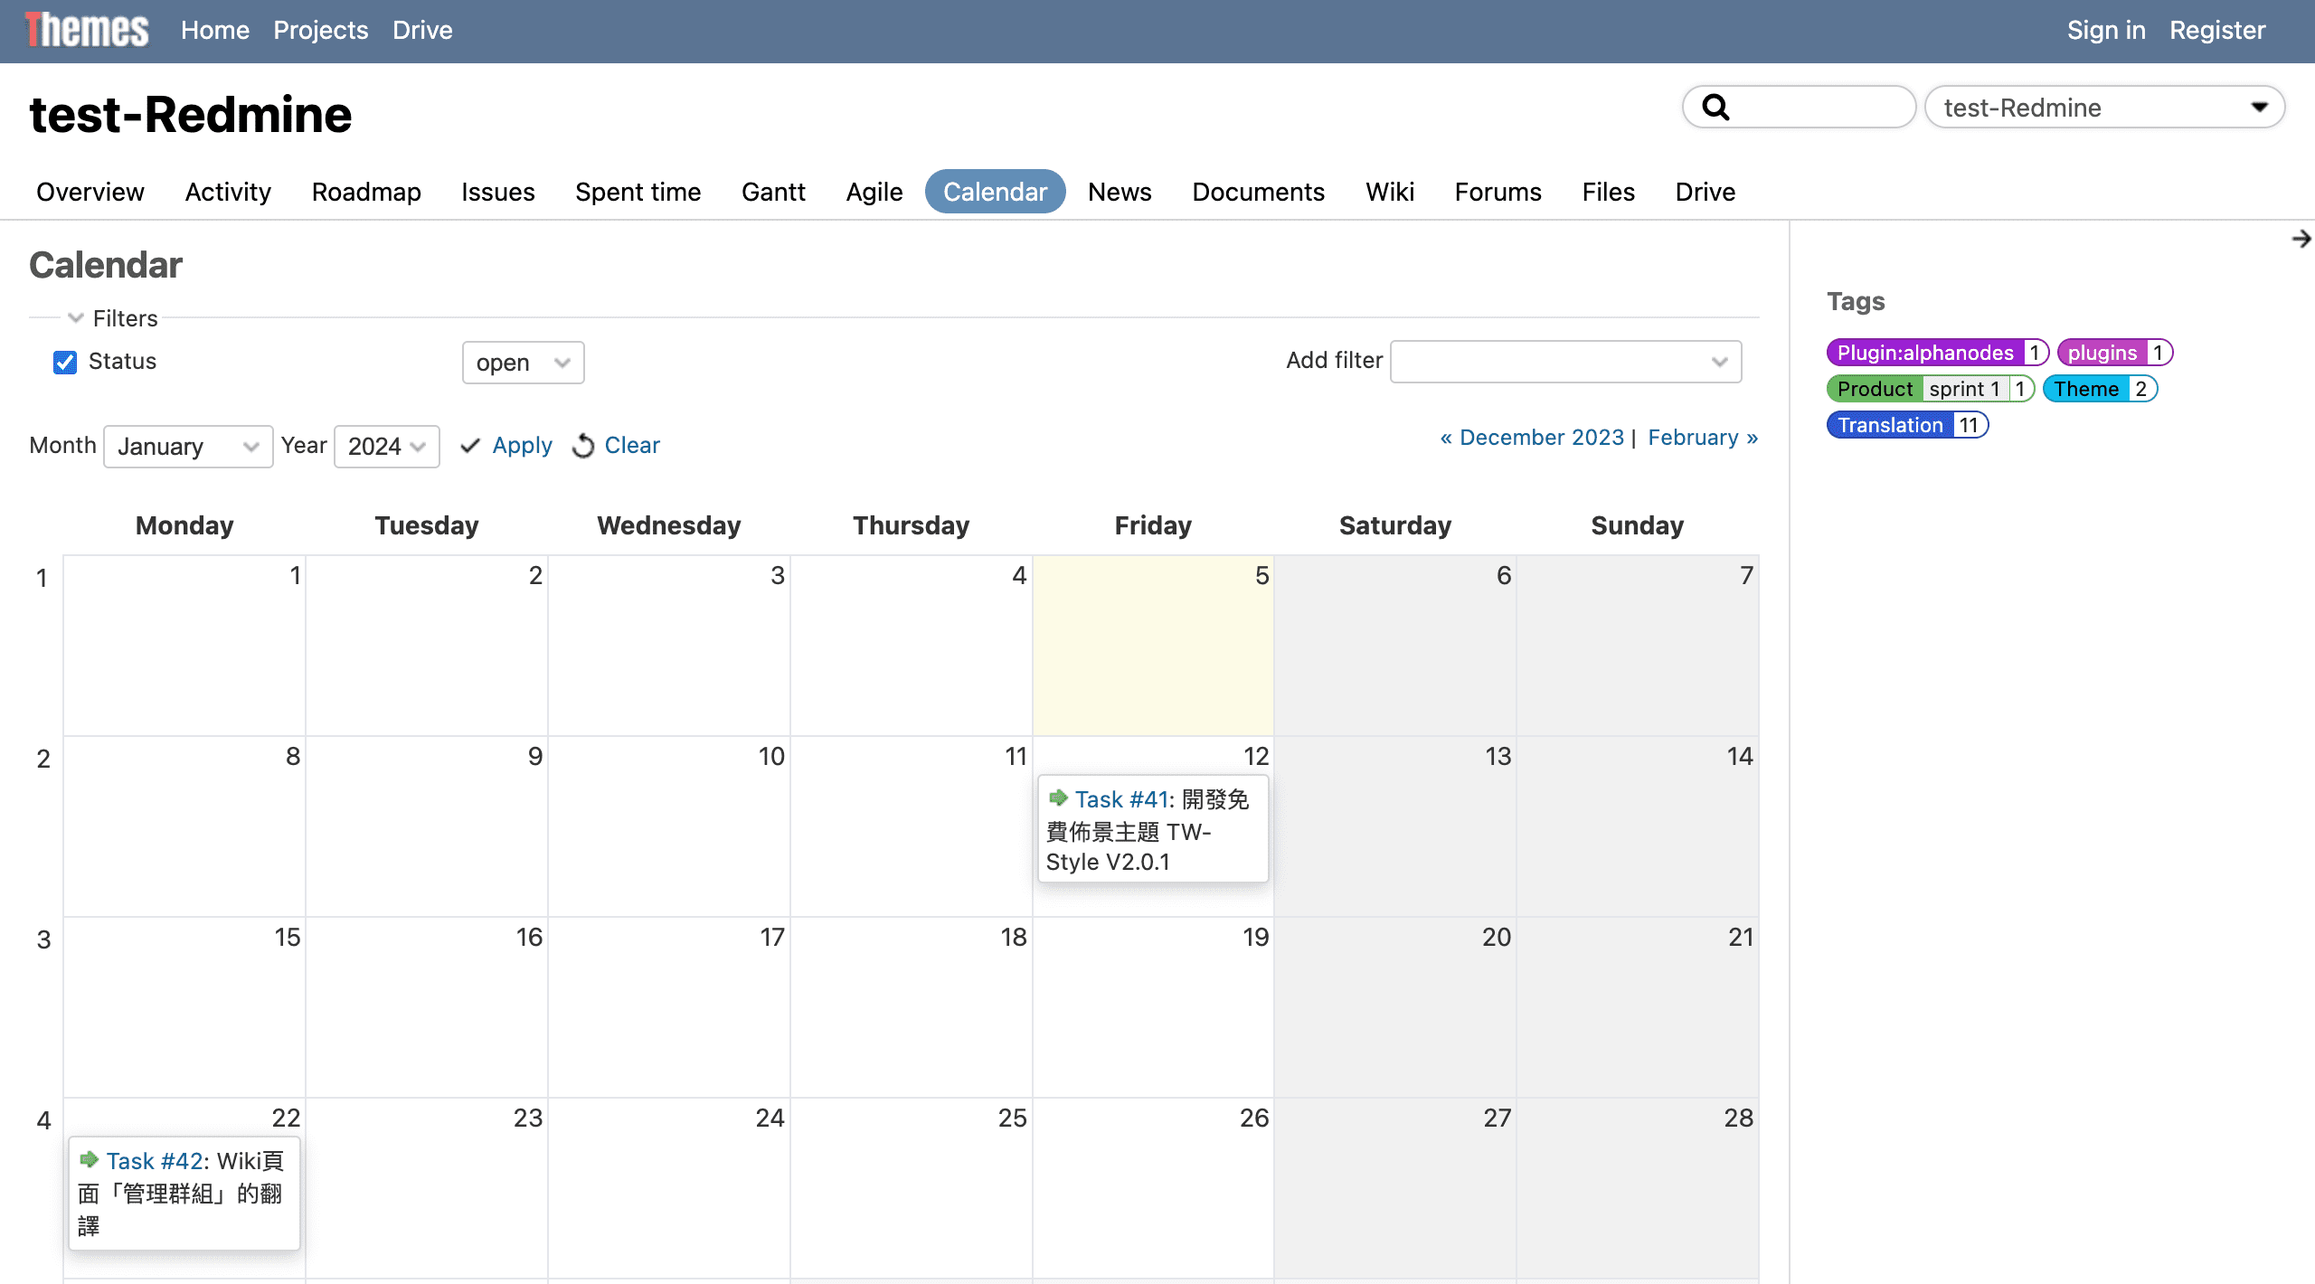
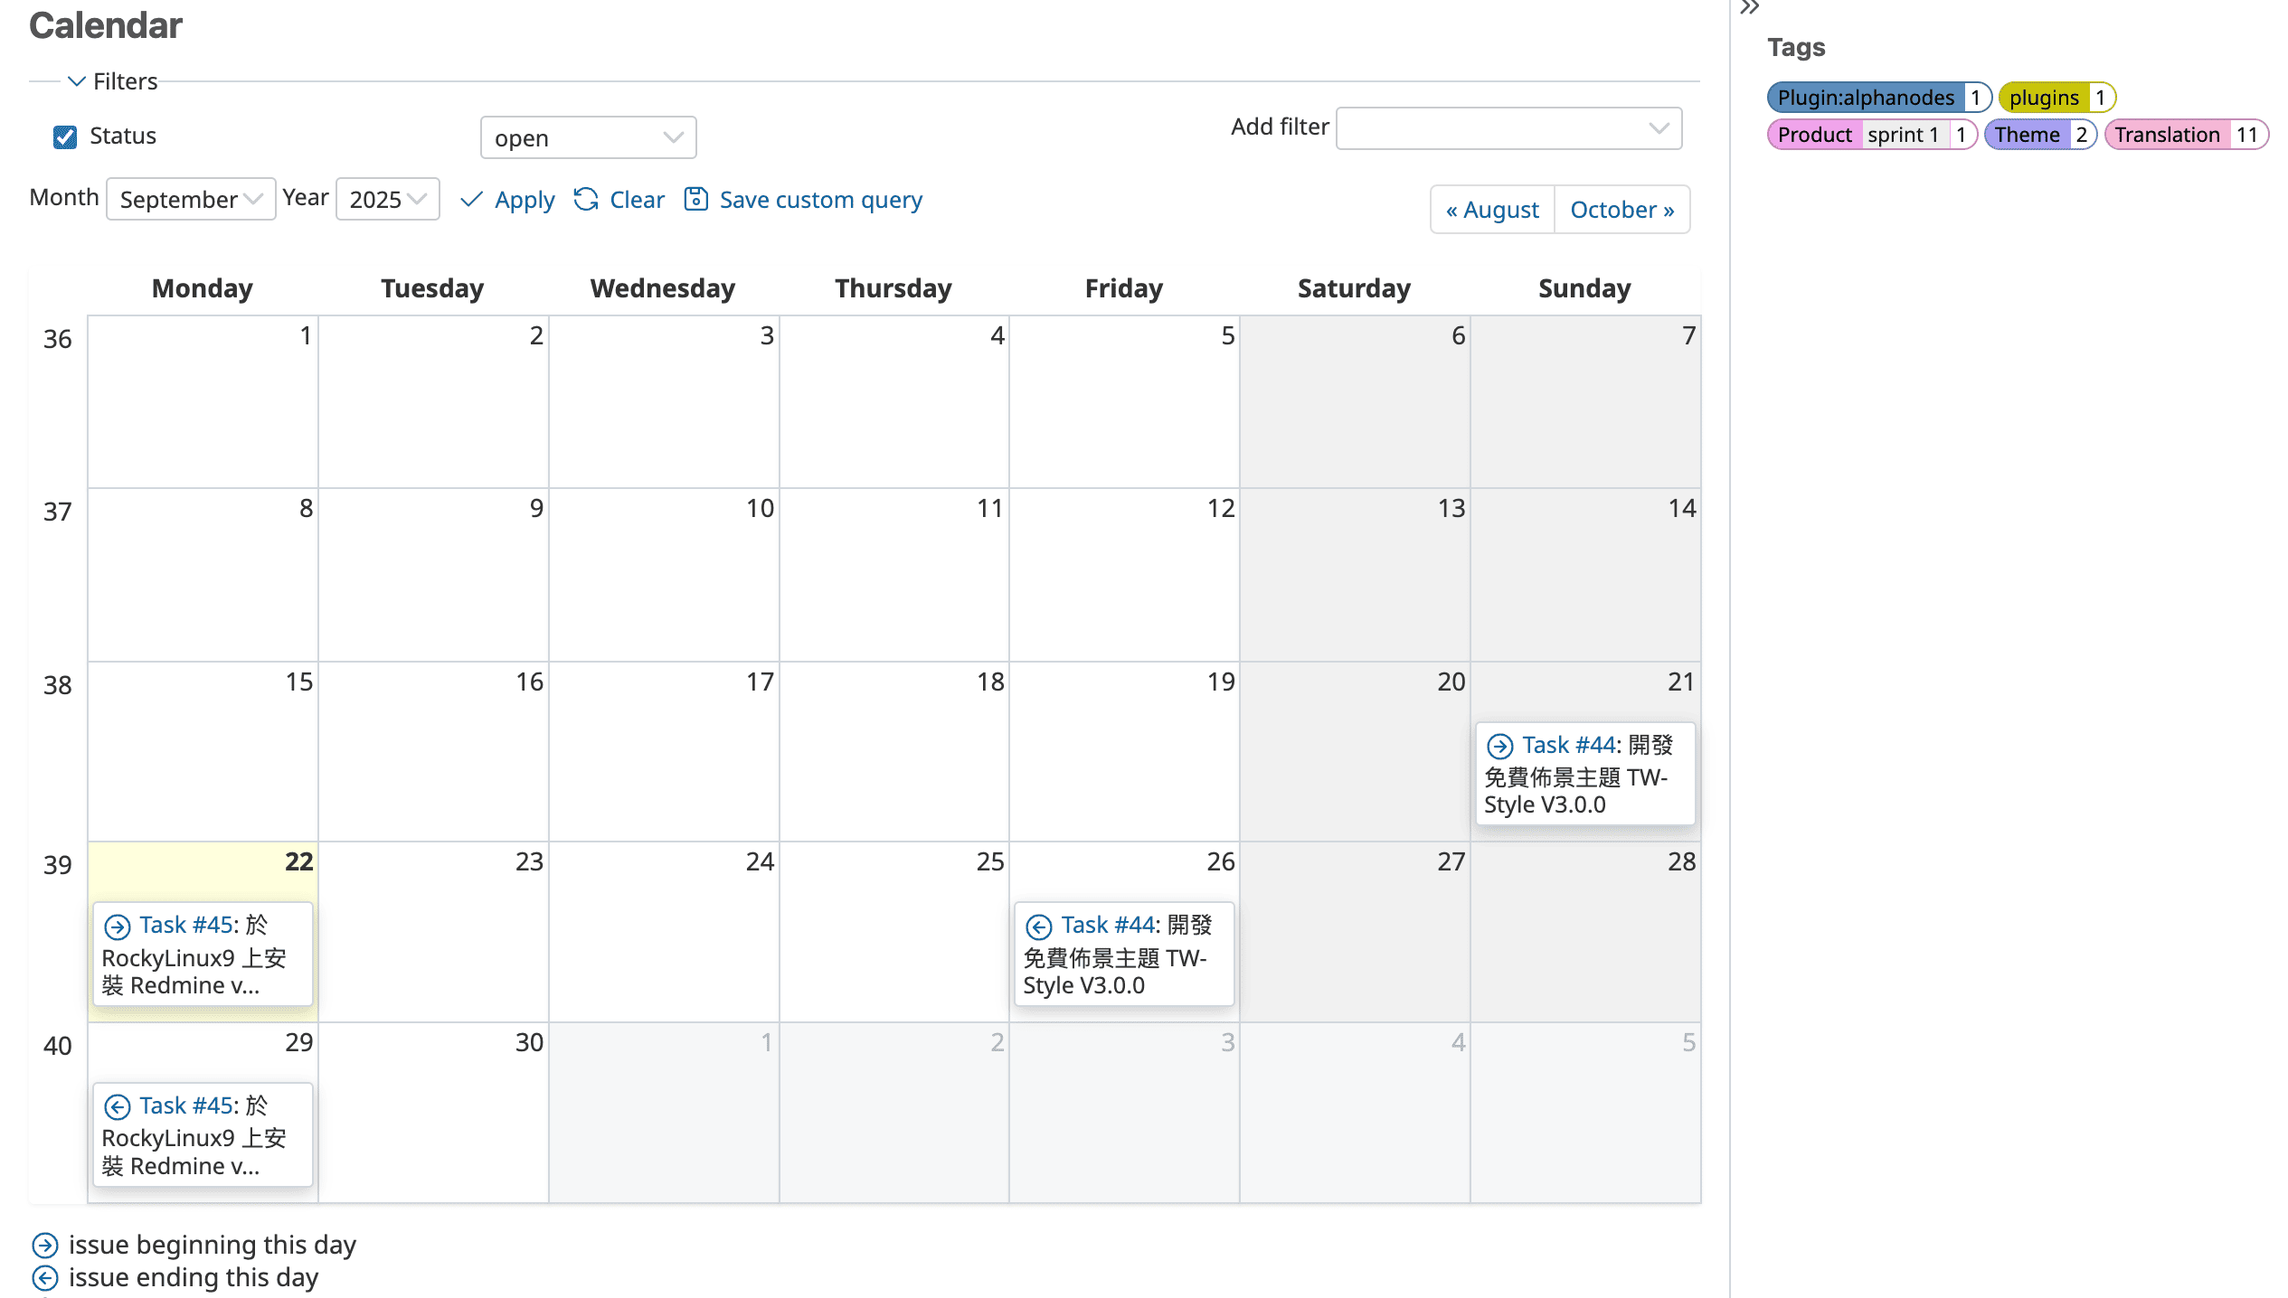
update to version 3.0.0

diff --git a/stylesheets/application.css b/stylesheets/application.css
@@ -1,33 +1,55 @@
-/**
- * TW-Style theme version 2.2.0, Copyright (C) 2024 Tomy Shen
+@import url("normalize.css");
+@import url("https://cdnjs.cloudflare.com/ajax/libs/font-awesome/4.7.0/css/font-awesome.min.css");
+@import url(../../../stylesheets/application.css);
+@import url(/application.css);
+
+/*
+ * TW-Style theme version 3.0.0, Copyright (C) 2025 Tomy Shen
  *
  * Author: Tomy Shen (tomy843012@hotmail.com)
  * Website: https://redmine-tw.net
- * @2024-05-16
+ * @2025-09-22
  * @license https://opensource.org/license/mit/
  *
  */
 
-@import url("normalize.css");
-@import url("https://cdnjs.cloudflare.com/ajax/libs/font-awesome/4.7.0/css/font-awesome.min.css");
-@import url("../../../stylesheets/application.css");
-
 #top-menu li { padding-right: 5px; }
 #top-menu a  { font-weight: unset; }
-#header { background-color: white; min-height: 4.4em;box-shadow: 0px 5px 10px -5px lightgray; }
+/* modify by tomy 2025-0918 for redmine6 */
+#header { 
+    background: linear-gradient(to right, #356D92, #e4e5e6);
+    min-height: 4.4em;
+    padding: 8px 16px 0px 16px;
+    box-shadow: 0px 5px 10px -5px lightgray; 
+}
 #header h1 {
-    color: black;
-    margin-top: 5px;
+    color: white;
+    margin-top: 3px;
+    margin-bottom: 12px;
     font-family: -apple-system, "Microsoft JhengHei", BlinkMacSystemFont, "Segoe UI", "Roboto", "Oxygen", "Ubuntu", "Fira Sans", "Droid Sans", "Helvetica Neue", sans-serif;
 }
 #header a { color: black; }
 #quick-search { margin-top: 8px; }
 button.tab-left, button.tab-right { border: 0; border-radius: 0; } /* Main-menu extend button */
-#main-menu li a { color: black; font-weight:normal; border-bottom: 3px solid transparent; }
-#main-menu li a:hover { background: #fff; color: black; border-bottom: 3px solid #628DB6; }
+#main-menu li a { color: black; border-bottom: 3px solid transparent; }
+#main-menu li a:hover {
+    line-height: 1.7em; /* add by tomy 2025-0922 for redmine6 */
+    color: black;
+    background: #fff;
+    border-bottom: 3px solid #628DB6;
+}
 #main-menu li a.new-object { background-color: transparent; }
 #main-menu li a.new-object:hover { background: #fff; color: black; border-bottom: 3px solid transparent; }
-#main-menu li a.selected, #main-menu li a.selected:hover { background: #628DB6; color: white; border-bottom: 0 solid transparent; border-radius: 50em; }
+/* modify by tomy 2025-0922 for redmine6 */
+#main-menu li a.selected, #main-menu li a.selected:hover {
+    background: #628DB6;
+    color: white;
+    border-bottom: 0 solid transparent;
+    border-radius: 0px;
+    font-weight: unset;
+    line-height: 1.7em;
+    border-bottom: 3px solid aliceblue;
+}
 #main-menu .menu-children li a { border-bottom: 3px solid transparent; }
 #main-menu .menu-children li a:hover { border-bottom: 3px solid transparent; }
 #main       { border-top: 1px solid lightgray; }
@@ -38,14 +60,14 @@ button.tab-left, button.tab-right { border: 0; border-radius: 0; } /* Main-menu 
 #projects-index a.icon-user.icon-bookmarked-project { background-image: url(icons/bookmarked-project.png), url(icons/user.png); }
 #history .tab-content { padding: 0 12px; box-shadow: 0 1px 3px rgba(0,0,0,.07); border-bottom-right-radius: 8px; border-bottom-left-radius: 8px; }
 #content .tabs ul li a { border: 1px solid transparent; }
-#footer::after { content:"\A TW-Style - Theme designed by tomy from Redmine-TW © 2023-2024"; white-space: pre-wrap; }
+#footer::after { content:"\A TW-Style - Theme designed by tomy from Redmine-TW © 2023-2025"; white-space: pre-wrap; }
 #login-form { border: 1px solid transparent; background-color: transparent; }
 input#login-submit { color: white; background: #3E5B76; border: 0px; }
 #login-form input#username, #login-form input#password { border-top: 0px; border-left: 0px; border-right: 0px; border-radius: 0px; }
 
 body { font-size: 14px; }
 table { border-spacing: 0; border-collapse: collapse; }
-table.list, .table-list { border-collapse: collapse; line-height: 22px; }
+table.list, .table-list { border-collapse: collapse; line-height: 22px; font-size: 0.75rem; }
 table.list th a, table.list .table-list-header a { color: #212136; }
 table.list th, .table-list-header { background-color: transparent; border-bottom: 1px solid lightgray; padding-bottom: 8px; }
 table.list th.activity, table.list th.assigned_to, table.list th.attachments, table.list th.author, table.list th.category, table.list th.comments, table.list th.description, table.list th.fixed_version, table.list th.last_notes, table.list th.last_updated_by, table.list th.name, table.list th.parent-subject, table.list th.priority, table.list th.relations, table.list th.roles, table.list th.status, table.list th.string, table.list th.subject, table.list th.text, table.list th.tracker, table.list th.user, table.list td.activity, table.list td.assigned_to, table.list td.attachments, table.list td.author, table.list td.category, table.list td.comments, table.list td.description, table.list td.fixed_version, table.list td.last_notes, table.list td.last_updated_by, table.list td.name, table.list td.parent-subject, table.list td.priority, table.list td.relations, table.list td.roles, table.list td.status, table.list td.string, table.list td.subject, table.list td.text, table.list td.tracker, table.list td.user {
@@ -58,14 +80,14 @@ table.list td { padding-top: 3px; padding-bottom: 3px; } /* Issue list */
 table.issues td { padding-top: 4px; padding-bottom: 4px; }
 table.list table.progress td, table.progress td { padding-top: 2px; padding-bottom: 2px; }
 
-table.boards a.board { background: url(icons/icon-forum.png) no-repeat 0% 50%; }
 div.issue { padding:20px; margin-top: 2px; background: cornsilk; box-shadow: 0 3px 9px rgba(0,0,0,.2); }
 div#history { margin-top: 18px; }
 div#replies { padding-left: 28px; }
-a.atom { background-image: url(icons/feed.png); padding-top: 4px; padding-left: 18px; }
+/* mark because redmine 6
+ a.atom { background-image: url(icons/feed.png); padding-top: 4px; padding-left: 18px; } */
 legend { margin-left: 8px; }
 
-#project-jump .drdn-trigger { padding-left: 10px; background: #fff url(icons/Arrow_down.png) no-repeat 97% 50%; border-radius: 25px; }
+#project-jump .drdn-trigger { padding-left: 10px; background: #fff url(icons/Arrow_down.png) no-repeat 97% 50%; border-radius: 25px; } /* use to redmine6 */
 #project-jump .drdn-content { padding: 2px; margin-top: 4px; box-shadow: rgba(0, 0, 0, 0.35) 0px 5px 15px; }
 input.autocomplete { background: #fff url(icons/magnifier.png) no-repeat 4px 50%; padding-left:24px !important; }
 
@@ -73,12 +95,14 @@ input.autocomplete { background: #fff url(icons/magnifier.png) no-repeat 4px 50%
 .nodata, .warning { background-color: #fff3cd; border-color: #ffecb5; }
 
 /* Submit button */
-input[type="submit"] { background-color: #4169E1; color: #FFF; border: none; padding: 0 12px; border: 1px solid #A7C7E7; }
+input[type="submit"] { background-color: cornflowerblue; color: #FFF; border: none; padding: 0 12px; border: 1px solid #A7C7E7; }
 input[type="submit"]:hover { background-color: #A7C7E7; }
 /* Button style */
 .contextual > :not(:first-child) { margin-left: 3px; }
 .contextual  .icon.icon-zoom-out, .icon.icon-zoom-in {
-  padding-left: 26px;
+  /* mark by tomy 2025-0918 because redmine6
+  padding-left: 26px;*/
+  padding-left: 12x;
   padding-right: 10px;
   display: inline-block;
   height: 22px;
@@ -88,49 +112,6 @@ input[type="submit"]:hover { background-color: #A7C7E7; }
   border-radius: 3px;
   background-position: 15% 50%;
 }
-/* Badge */
-.badge { padding: 2px 5px; font-size: 11px; }
-/* Icons */
-.icon-add               { background-image: url(icons/add.png); }
-.icon-checked           { background-image: url(icons/check.png); }
-.icon-reload            { background-image: url(icons/reload.png); }
-.icon-save              { background-image: url(icons/save.png); }
-.icon-time-add          { background-image: url(icons/time-add.png); }
-.icon-settings          { background-image: url(icons/settings.png); }
-.icon-bookmark          { background-image: url(icons/bookmark.png); }
-.icon-bookmark-off      { background-image: url(icons/bookmark-off.png); }
-.icon-edit              { background-image: url(icons/edit.png); }
-.icon-group             { background-image: url(icons/group.png); }
-.icon-help              { background-image: url(icons/help.png); }
-.icon-user              { background-image: url(icons/user.png); }
-.icon-time              { background-image: url(icons/time.png); }
-.icon-list              { background-image: url(icons/list.png); }
-.icon-del               { background-image: url(icons/del.png); }
-.icon-import            { background-image: url(icons/import.png); }
-.icon-copy              { background-image: url(icons/copy.png); }
-.icon-copy-link         { background-image: url(icons/copy-link.png); }
-.icon-view              { background-image: url(icons/view.png) !important; }
-.icon-lock              { background-image: url(icons/lock.png); }
-.icon-locked            { background-image: url(icons/lock.png); }
-.icon-zoom-in           { background-image: url(icons/zoom-in.png); }
-.icon-zoom-out          { background-image: url(icons/zoom-out.png); }
-.icon-sort-handle       { background-image: url(icons/sort-handle.png); }
-.icon-download          { background-image: url(icons/download.png); }
-.icon-attachment        { background-image: url(icons/attachment.png); }
-.icon-history           { background-image: url(icons/history.png); }
-.icon-comment           { background-image: url(icons/comment.png); }
-.icon-email-add         { background-image: url(icons/email-add.png); }
-.icon-passwd            { background-image: url(icons/passwd.png); }
-.icon-news              { background-image: url(icons/news.png); }
-.icon-projects          { background-image: url(icons/project.png); }
-.icon-package           { background-image: url(icons/package.png); }
-.icon-issue             { background-image: url(icons/issue.png); }
-.icon-issue-edit        { background-image: url(icons/issue-edit.png); }
-.icon-workflows         { background-image: url(icons/workflows.png); }
-.icon-plugins           { background-image: url(icons/plugins.png); }
-.icon-roles             { background-image: url(icons/roles.png); }
-.icon-custom-fields     { background-image: url(icons/custom-fields.png); }
-.icon-bookmarked-project{ background-image: url(icons/bookmarked-project.png); }
 
 /* Website LOGO */
 div#top-menu {
@@ -157,7 +138,6 @@ div#top-menu {
 @media screen and (max-width: 600px) {
     #projects-index ul.projects li.root { width: calc(100% - 12px); }
 }
-
 
 /* Page transition */
 #main {
@@ -208,18 +188,6 @@ tr.time-entry td.issue a.issue {
     border: 1px solid lightgray;
     margin-right: 4px;
 }
-
-/* Fix reply subject bug */
-input#message_subject, input#document_title, input#issue_subject, input#news_title, textarea#news_summary {
-    width: 100%; max-width: 100%;
-}
-
-/* compatible for normal.css */
-div.issue .attribute .value { overflow: visible; }
-[type="checkbox"], [type="radio"] { margin-left: 4px; margin-right: 4px; }
-
-/* Forum setting table borderless*/
-table.list, .table-list { border:0 }
 
 /* Popup window style */
 div.modal { border-radius:0 ; padding: 0 0 4px 0; }
@@ -280,12 +248,14 @@ ul.cal             { border: 0; } /* compatible with Redmine 5.1 */
 .document-item .updated_on em { padding-left: 20px; font-weight: bold; }
 .document-item h4.title { padding-bottom: 10px; font-size: 15px; font-weight: 300; }
 .document-item h4.title a {
-    background-image: url(icons/attachment.png);;
+    background-image: url(icons/attachment.png); /* use to remdine6*/
     background-position: 0% 50%;
     background-repeat: no-repeat;
     padding-left: 20px;
 }
 /* News module */
+.wiki.wiki-page { font-size: 1.1em; font-weight: 400; } /* 2024-0402 font size tuning*/
+div.wiki { color: #121212; line-height: 1.5; } /* 2024-0402 wiki行間距、字體顏色 */
 article.news-article {
     padding: 18px;
     background-color: #f6f6f6;
@@ -293,14 +263,6 @@ article.news-article {
     border-radius: 8px;
     box-shadow: 0 1px 3px rgba(0,0,0,.07);
     margin-bottom: 15px;
-}
-h3.comments {
-    padding-top: 2px;
-    padding-bottom: 3px;
-    background-image: url(icons/comment.png);
-    background-position: 0% 50%;
-    background-repeat: no-repeat;
-    padding-left: 20px;
 }
 /* Gantt moudle */
 .task_late { background: #f66; }
@@ -323,7 +285,7 @@ div.wiki h2, div.wiki .h2 {
 }
 div.wiki h3, div.wiki .h3 { padding-bottom: .2em; font-size: 1.25em; font-weight: 500; }
 div.wiki .toc { line-height: unset; padding: 10px 18px 14px 18px; border-radius: 15px; font-size: 1em; }
-div.wiki ul.toc a { font-size: 1.25em; }
+div.wiki ul.toc a { font-size: 1em; }
 div.wiki ul.toc a:hover { text-decoration: none; }
 div.wiki ul.toc {
     padding: 12px 20px;
@@ -333,6 +295,7 @@ div.wiki ul.toc {
     box-shadow: 0px 4px 12px rgba(0, 0, 0, 0.3);
 }
 /* Forum module */
+table.list, .table-list { border:0 } /* Forum setting table borderless*/
 p.breadcrumb { font-size: 1.05em; }
 table.messages th, table.messages td { text-align: left; padding: 2px 2px 2px 20px; } 
 table.boards th { text-align: left; padding-left: 8px;} 
@@ -359,35 +322,29 @@ body.avatars-off div.journal h4 img.gravatar { margin-left: 0px; }
 img.gravatar, div.gravatar-with-child > img.gravatar:nth-child(2) { 
     border-radius: 160px; -moz-border-radius: 160px; -webkit-border-radius: 160px;
 }
-/* Collapsible sidebar toggle  */
-#main #sidebar { padding: 20px 20px; }
-#sidebar {
-    will-change: margin;
-    transition: margin .5s;
-    flex: 0 0 250px;
-    order: -1;
-}
-#sidebar.sidebar-hidden { display: none; }
-#sidebar.sidebar-hiding { margin-right: -291px; }
-.sidebar-toggler.sidebar-hidden { background-image: url(icons/ArrowBack.png); }
-.sidebar-toggler {
-    display: block;
-    position: absolute;
-    z-index: 2;
-    bottom: -3px;
-    width: 14px;
-    height: 16px;
-    transform: translateY(100%);
-    background-position: center;
-    line-height: 1;
-    -webkit-user-select: none;
-    -moz-user-select: none;
-    -ms-user-select: none;
-    user-select: none;
-    right: 0;
-    background-image: url(icons/ArrowForward.png);
+
+
+/* Fix reply subject bug */
+input#message_subject, input#document_title, input#issue_subject, input#news_title, textarea#news_summary {
+    width: 100%; max-width: 100%;
 }
 
-/* 2024-0402 wiki行間距、字體顏色 */
-.wiki.wiki-page { font-size: 1.1em; font-weight: 400; }
-div.wiki { color: #121212; line-height: 1.5; }
+/* compatible for normal.css */
+div.issue .attribute .value { overflow: visible; }
+[type="checkbox"], [type="radio"] { margin-left: 4px; margin-right: 4px; }
+
+
+/* Sidebar tuning for redmine6 */
+.sidebar-toggler.sidebar-hidden { background-image: url(icons/ArrowBack.png); }
+#sidebar-switch-button:hover { background-color: transparent; }
+.collapsedsidebar #sidebar { border: 0px; }
+/* fix font size for activity and sidebar for redmine6 */
+div#activity dd { font-size: 0.75rem; }
+#sidebar { font-size: 0.75rem; }
+#history h4 { font-size: 0.75rem; }
+/* gantt font size tuning for redmine6 */
+body table.gantt-table { font-size: 16px; }
+/* main menu position tuning for redmine6 */
+#main-menu { left: -16px; position: relative; background: white; padding: 4px 24px; }
+/* sidebar line height tuning for redmine6 */
+#sidebar ul li, ul.flat li { line-height: 1.7em; }

diff --git a/README.md b/README.md
@@ -1,16 +1,18 @@
 # TW-Style
 
-![Redmine](https://img.shields.io/badge/Redmine-5.1-brightgreen)
+![Redmine](https://img.shields.io/badge/Redmine-6.0-brightgreen)
 
 A free Redmine theme made in Taiwan.
 
 With simple design, create a style that is compatible with English and Chinese visuals. This is my first time working on Github. If you like this, please feel free to give a star to this project.
 
-**Version：** 2.2.0
+**Version：** 3.0.0
 
-**Compatible with :** Redmine 5.1 - 4.1
+**Compatible with :** Redmine 6.x
 
 **Supported by :** [Redmine-TW](https://redmine-tw.net)
+
+> 2.2.0 and previous versions are compatible with Redmine 5.1 - 4.1
 
 ## Installation
 

diff --git a/CHANGELOG.md b/CHANGELOG.md
@@ -1,3 +1,10 @@
+v3.0.0 (2025-09-22)
+* 支持 Redmine 6.x（不支持向下版本的兼容）
+* 適配 Redmine 6.x 的側邊選單折疊（collapsible sidebar）
+* 適配 Redmine 6.x 的 svg icon
+* 調整全局字型大小
+* 調整主選單視覺
+
 v2.2.0 (2024-10-16)
 * 引入 normalize.css
 * Wiki 字體、尺寸間距調整
